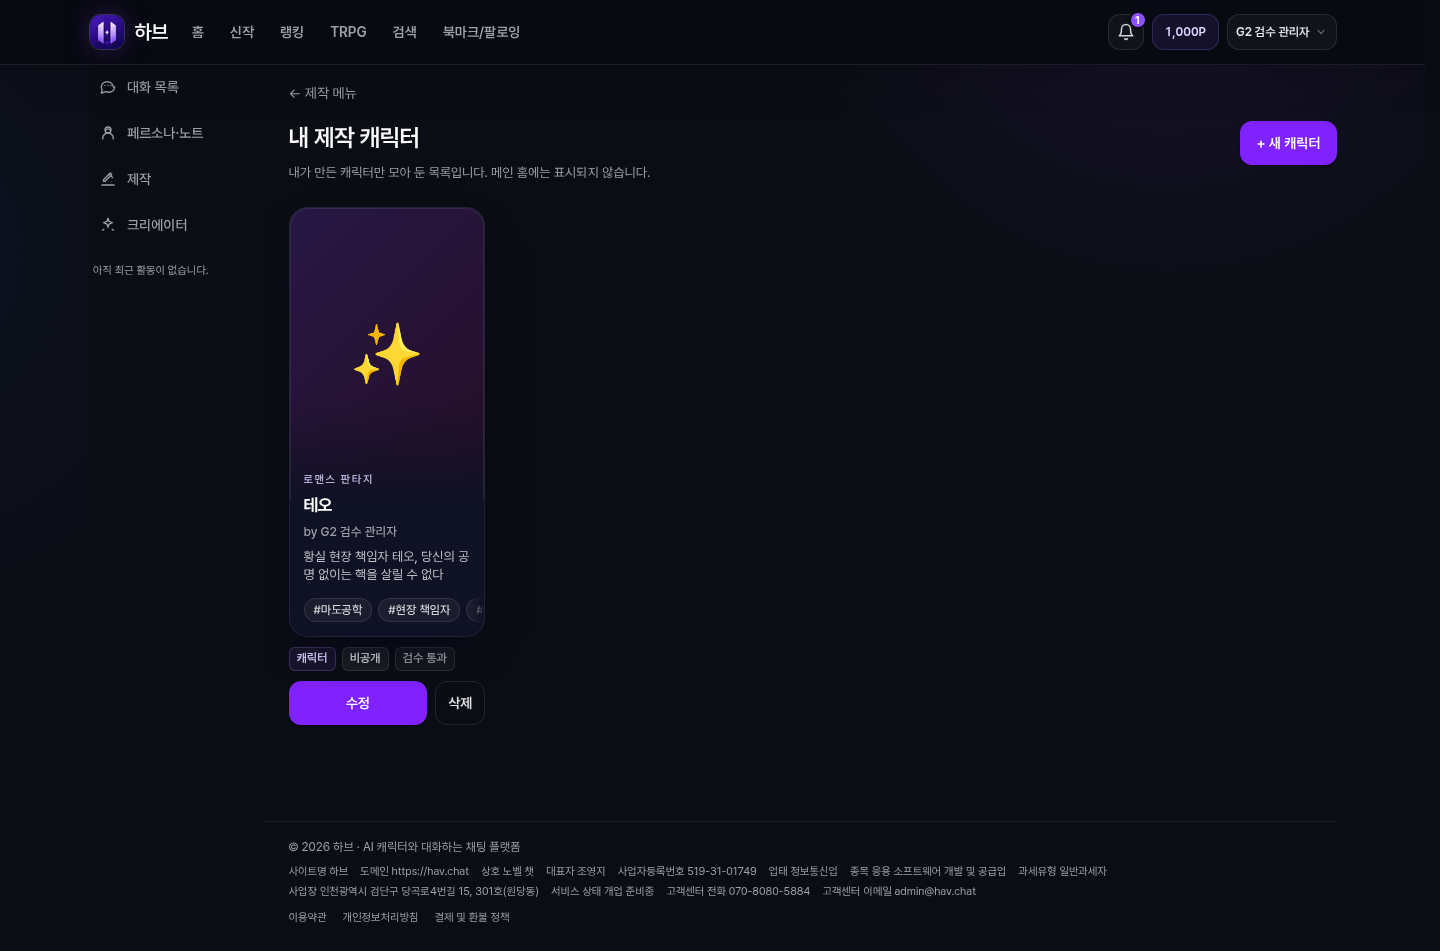
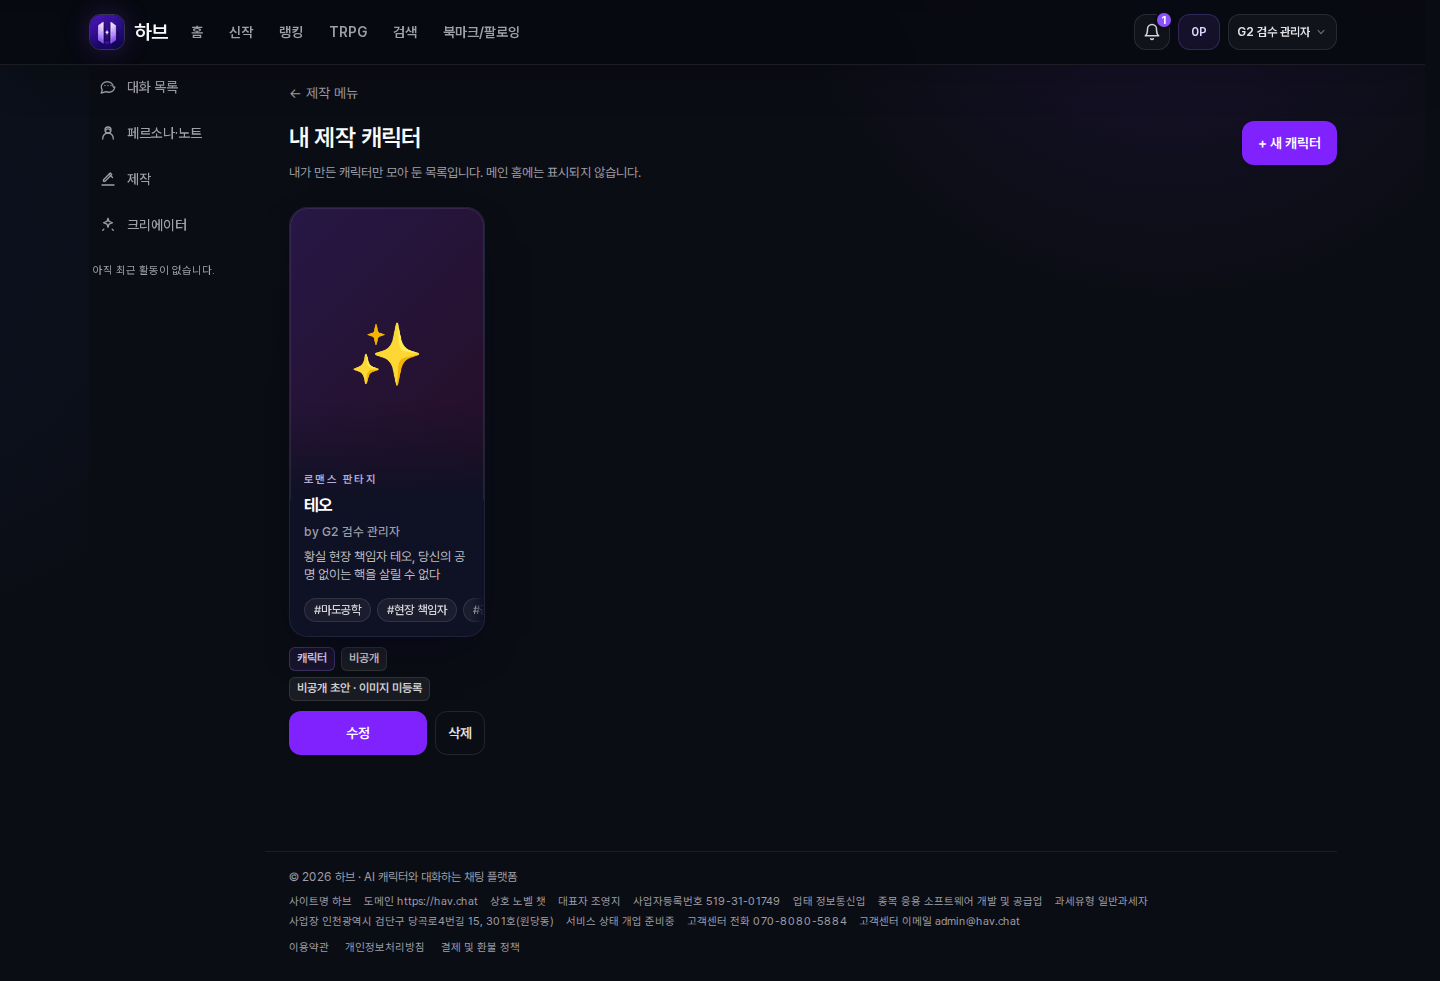
fix(hav): align studio draft chip with isAdminUser and approved-only
Pass isAdminUser(user) into studio cards instead of raw is_admin.
Show imageless admin private draft chip only when moderation is approved.
Refresh G2 AFTER list screenshots and regression tests.

diff --git a/src/lib/studioWorkStatusLabel.test.ts b/src/lib/studioWorkStatusLabel.test.ts
@@ -7,6 +7,7 @@ import {
   studioWorkModerationChipLabel,
 } from "@/lib/studioWorkStatusLabel";
 import { moderationLabel } from "@/lib/characterVisibility";
+import { isAdminUser } from "@/lib/isAdminUser";
 
 const base = {
   ownerIsAdmin: true,
@@ -18,10 +19,38 @@ const base = {
   images: "[]",
 };
 
+describe("isAdminUser (studio card gate)", () => {
+  it("honors ADMIN_EMAILS and excludes portone reviewer even when is_admin=1", () => {
+    const prev = process.env.ADMIN_EMAILS;
+    process.env.ADMIN_EMAILS = "ops@example.com";
+    try {
+      assert.equal(isAdminUser({ email: "ops@example.com", is_admin: 0 }), true);
+      assert.equal(isAdminUser({ email: "other@example.com", is_admin: 0 }), false);
+      assert.equal(
+        isAdminUser({ email: "ops@example.com", is_admin: 1, account_kind: "portone_reviewer" }),
+        false,
+      );
+    } finally {
+      if (prev === undefined) delete process.env.ADMIN_EMAILS;
+      else process.env.ADMIN_EMAILS = prev;
+    }
+  });
+});
+
 describe("studioWorkModerationChipLabel", () => {
-  it("shows draft copy for admin private character drafts without images", () => {
+  it("shows draft copy for admin private character drafts without images when moderation is approved", () => {
     assert.equal(studioWorkModerationChipLabel(base), ADMIN_IMAGELESS_PRIVATE_DRAFT_CHIP);
     assert.ok(isAdminImagelessPrivateCharacterDraft(base));
+  });
+
+  it("keeps pending and rejected moderation labels on image-less admin private drafts", () => {
+    for (const moderation of ["pending", "rejected"] as const) {
+      assert.equal(
+        studioWorkModerationChipLabel({ ...base, moderation }),
+        moderationLabel(moderation),
+      );
+      assert.equal(isAdminImagelessPrivateCharacterDraft({ ...base, moderation }), false);
+    }
   });
 
   it("keeps canonical moderation labels for everyone else", () => {

diff --git a/src/app/my-characters/page.tsx b/src/app/my-characters/page.tsx
@@ -1,6 +1,7 @@
 import { redirect } from "next/navigation";
 import { shouldHideAdultListings } from "@/lib/adultVerification";
 import { getSessionUser } from "@/lib/auth";
+import { isAdminUser } from "@/lib/isAdminUser";
 import { getDb } from "@/lib/db";
 import MyCharacterCard, { type MyCharacterRow } from "@/components/MyCharacterCard";
 import StudioButton from "@/components/studio/StudioButton";
@@ -43,7 +44,7 @@ export default async function MyCharactersPage() {
       ) : (
         <div className="mt-6 grid grid-cols-2 gap-x-4 gap-y-0 sm:grid-cols-3 lg:grid-cols-5">
           {chars.map((c) => (
-            <MyCharacterCard key={c.id} c={c} blurNsfw={blurNsfw} ownerIsAdmin={Boolean(user.is_admin)} />
+            <MyCharacterCard key={c.id} c={c} blurNsfw={blurNsfw} ownerIsAdmin={isAdminUser(user)} />
           ))}
         </div>
       )}

diff --git a/src/app/studio/studioWorkStatusAdmin.regression.test.ts b/src/app/studio/studioWorkStatusAdmin.regression.test.ts
@@ -1,0 +1,15 @@
+import assert from "node:assert/strict";
+import { readFileSync } from "node:fs";
+import { describe, it } from "node:test";
+
+const studioPage = readFileSync(new URL("./page.tsx", import.meta.url), "utf8");
+const myCharactersPage = readFileSync(new URL("../my-characters/page.tsx", import.meta.url), "utf8");
+
+describe("studio work status admin gate", () => {
+  it("uses isAdminUser for card chips, not raw is_admin", () => {
+    assert.match(studioPage, /ownerIsAdmin=\{isAdminUser\(user\)\}/);
+    assert.doesNotMatch(studioPage, /ownerIsAdmin=\{Boolean\(user\.is_admin\)\}/);
+    assert.match(myCharactersPage, /ownerIsAdmin=\{isAdminUser\(user\)\}/);
+    assert.doesNotMatch(myCharactersPage, /ownerIsAdmin=\{Boolean\(user\.is_admin\)\}/);
+  });
+});

diff --git a/src/app/studio/page.tsx b/src/app/studio/page.tsx
@@ -2,6 +2,7 @@ import { Suspense } from "react";
 import { redirect } from "next/navigation";
 import { canUseCreatorTools, shouldHideAdultListings } from "@/lib/adultVerification";
 import { getSessionUser } from "@/lib/auth";
+import { isAdminUser } from "@/lib/isAdminUser";
 import { getDb } from "@/lib/db";
 import AdultVerifyGate from "@/components/AdultVerifyGate";
 import StudioClient from "@/components/StudioClient";
@@ -59,7 +60,7 @@ export default async function StudioPage() {
         lorebooks={lorebooks}
         blurNsfw={blurNsfw}
         creatorId={user.id}
-        ownerIsAdmin={Boolean(user.is_admin)}
+        ownerIsAdmin={isAdminUser(user)}
       />
     </Suspense>
   );

diff --git a/src/lib/studioWorkStatusLabel.ts b/src/lib/studioWorkStatusLabel.ts
@@ -28,10 +28,12 @@ export function isAdminImagelessPrivateCharacterDraft(input: {
   isSimulation: boolean;
   official: number;
   visibility: CharacterVisibility;
+  moderation: ModerationStatus;
   assets?: string | null;
   images?: string | null;
 }): boolean {
   if (!input.ownerIsAdmin) return false;
+  if (input.moderation !== "approved") return false;
   if (input.isSimulation) return false;
   if (input.official !== 0) return false;
   if (input.visibility !== "private") return false;

diff --git a/docs/official-supply/reviews/g2-2026-10-28/README.md b/docs/official-supply/reviews/g2-2026-10-28/README.md
@@ -38,7 +38,7 @@
 ## PROOF
 
 - 동일한 G2 직접 회귀 **main: 4 PASS / 13 FAIL → G2: 17 PASS / 0 FAIL**.
-- 격리 SQLite에서 최초 원고와 자동 보정 후보를 각각 생성 → 로드 → full 수정 → 공개 정보 수정 → 이미지 후첨부했다. 원문·말투·소개·코멘트·세계관·로어북·ID·저장 대화가 유지됐다. pending 이미지는 공개 거부, trusted moderation 완료 후 기존 공개 경로가 작동했다. 이때도 official=0이다. DB `approved`는 GPT 원고 승인과 무관하며, 스튜디오 카드는 이미지 없는 관리자 private 초안에 `비공개 초안 · 이미지 미등록` 칩을 표시한다(`studioWorkStatusLabel.ts`).
+- 격리 SQLite에서 최초 원고와 자동 보정 후보를 각각 생성 → 로드 → full 수정 → 공개 정보 수정 → 이미지 후첨부했다. 원문·말투·소개·코멘트·세계관·로어북·ID·저장 대화가 유지됐다. pending 이미지는 공개 거부, trusted moderation 완료 후 기존 공개 경로가 작동했다. 이때도 official=0이다. DB `approved`는 GPT 원고 승인과 무관하며, 스�udio 카드는 `isAdminUser(user)`일 때만, moderation이 `approved`인 이미지 없는 관리자 private 초안에 `비공개 초안 · 이미지 미등록` 칩을 표시한다(`pending`/`rejected`는 기존 검수 문구 유지). AFTER 목록 스크린샷: `ui/after-list-390.png`, `ui/after-list-1440.png`.
 - 정상 사용자/위조 body 권한/reviewer/simulation/이미지 없는 public·link 거부. 공식 row의 이미지 제거 거부.
 - 실제 G1 4번째 provider 응답을 오프라인 재생: 기존 194자 유지 + 명시적 실패 + 기존 settled 비용 `$0.000968` 집계 유지. 요청 필드별 누락/빈 값도 검증했다.
 - 관련 회귀 초기 실행은 747개 중 746 PASS, 과거 manifest와 현재 템플릿 버전의 동일성을 가정한 테스트 1개 FAIL이었다. 과거 provenance 보존으로 테스트를 바로잡은 후 핵심 author/pilot/G1/품질 owner **123/123 PASS**, 마지막 저장·에셋·공식 관리 회귀 **92/92 PASS**다.
